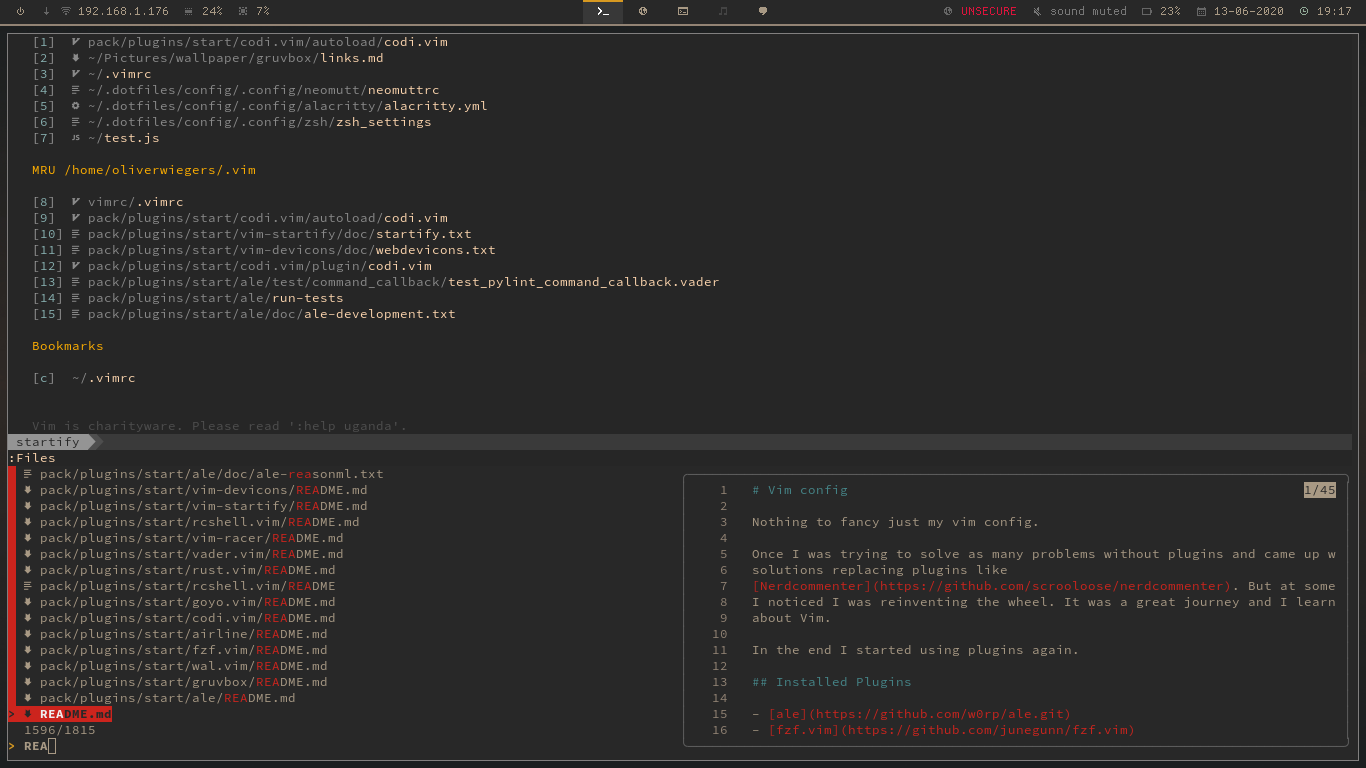
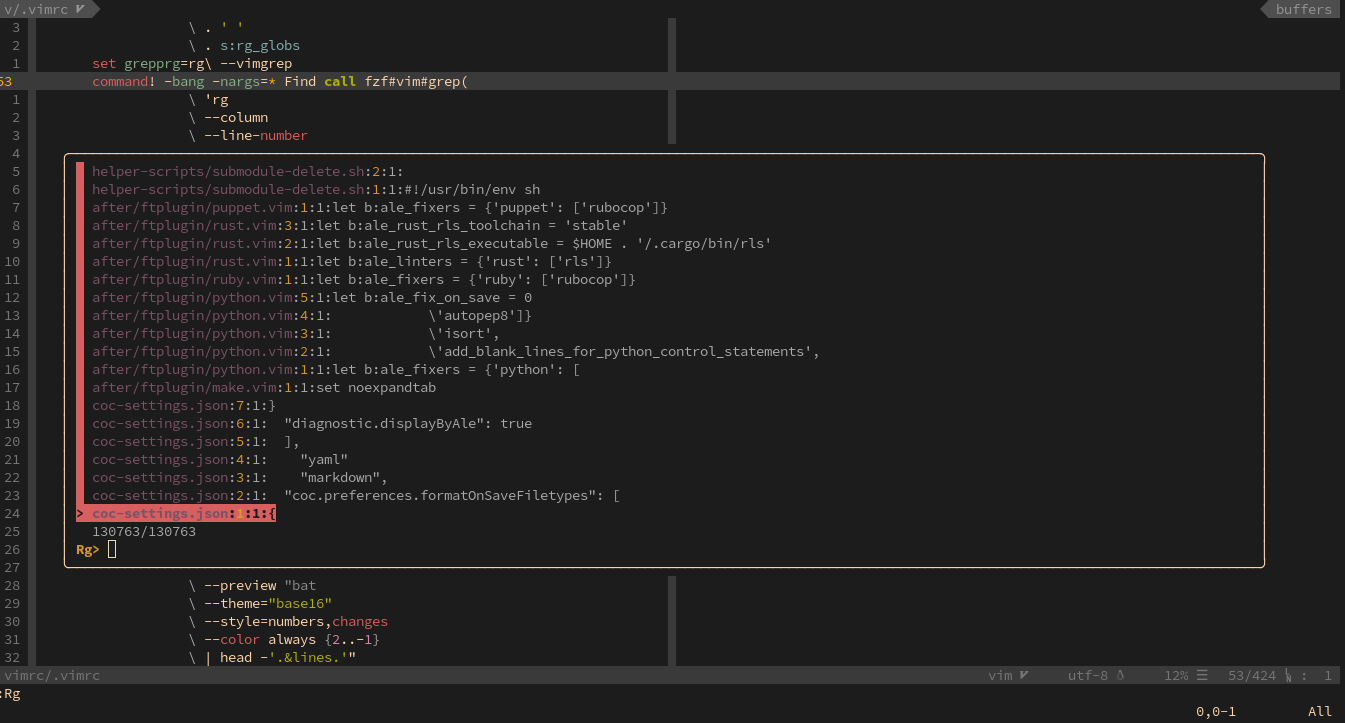
Update readme and screenshot, remove code.vim

Changed region(s): [[0.0, 0.0, 1.0, 1.0], [0.4996, 0.6694, 0.9993, 0.852], [0.8743, 0.9129, 0.968, 0.9433]]

diff --git a/README.md b/README.md
@@ -13,11 +13,9 @@ In the end I started using plugins again.
 ## Look
 
 Currently using gruvbox again.
+Screenshot is showing the ripgrep preview.
 
 ![Vim](screenshot.png "Vim screenshot")
-
-The configuration for polybar on top can be found at
-[oliverwiegers/dotfiles](https://github.com/oliverwiegers/dotfiles).
 
 ## Installed Plugins
 
@@ -29,7 +27,6 @@ The configuration for polybar on top can be found at
 - [coc.nvim](https://github.com/neoclide/coc.nvim)
 - [rust.vim](https://github.com/rust-lang/rust.vim)
 - [goyo.vim](https://github.com/junegunn/goyo.vim)
-- [codi.vim](https://github.com/metakirby5/codi.vim)
 - [vim-rails](https://github.com/tpope/vim-rails)
 - [vim-racer](https://github.com/racer-rust/vim-racer)
 - [vader.vim](https://github.com/junegunn/vader.vim)
@@ -40,6 +37,13 @@ The configuration for polybar on top can be found at
 - [vim-fugitive](https://github.com/tpope/vim-fugitive.git)
 - [vim-capslock](https://github.com/tpope/vim-capslock)
 - [vim-startify](https://github.com/mhinz/vim-startify)
+
+## External dependencies
+
+- [ripgrep](https://github.com/BurntSushi/ripgrep) is needed to recursively
+search directory.
+- [bat](https://github.com/sharkdp/bat) is needed for ripgrep preview.
+- [fzf](https://github.com/junegunn/fzf) is needed for fzf.vim to run.
 
 ## Installation
 
